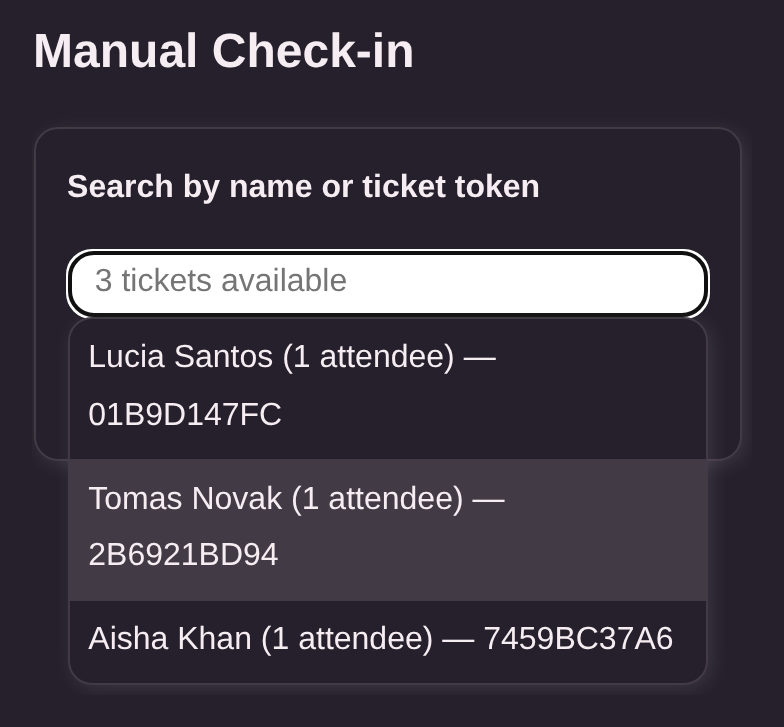
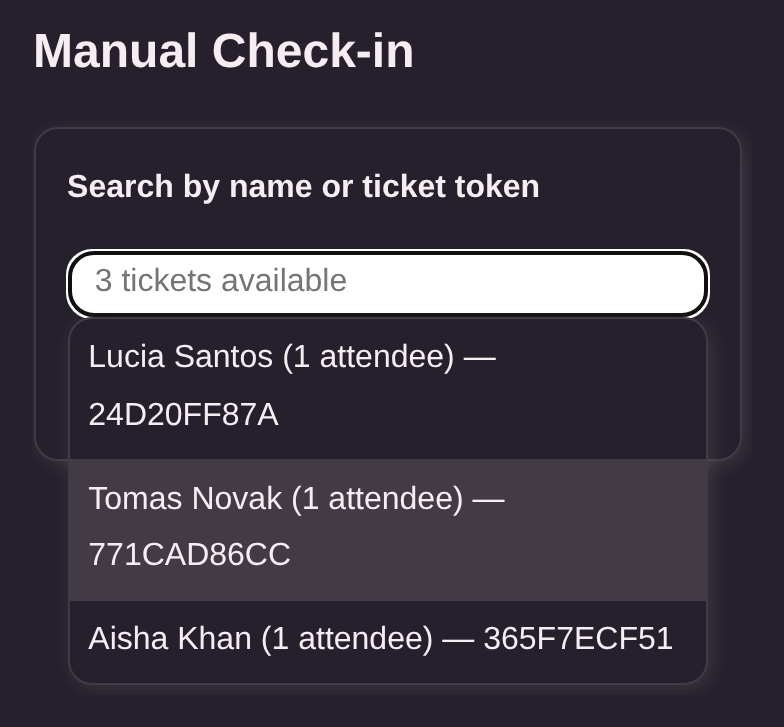
Layered screenshots

Changed region(s): [[0.6122, 0.8473, 0.8571, 0.9078], [0.1224, 0.7263, 0.3673, 0.7868], [0.1224, 0.5447, 0.3673, 0.6052]]

diff --git a/scripts/video/layered-screenshot.jsx b/scripts/video/layered-screenshot.jsx
@@ -1,0 +1,78 @@
+import {
+  Img,
+  interpolate,
+  spring,
+  staticFile,
+  useCurrentFrame,
+  useVideoConfig,
+} from "remotion";
+
+const SCREENSHOT_INSET = 72;
+const SCREENSHOT_OPACITY = 0.55;
+const SCREENSHOT_PLANES = [
+  { delay: 0, rotateX: -5, rotateY: -8, x: -38, y: 42, z: -180 },
+  { delay: 5, rotateX: 6, rotateY: 11, x: 72, y: 18, z: 260 },
+  { delay: 10, rotateX: -7, rotateY: -6, x: -48, y: -34, z: 420 },
+];
+
+const driftStyle = (frame, durationInFrames) => ({
+  height: `calc(100% - ${SCREENSHOT_INSET * 2}px)`,
+  inset: SCREENSHOT_INSET,
+  perspective: 1100,
+  position: "absolute",
+  transform: `translate3d(0, ${interpolate(
+    frame,
+    [0, durationInFrames],
+    [24, -24],
+    { extrapolateLeft: "clamp", extrapolateRight: "clamp" },
+  )}px, 0) scale(${interpolate(frame, [0, durationInFrames], [1.01, 1.06], {
+    extrapolateLeft: "clamp",
+    extrapolateRight: "clamp",
+  })})`,
+  transformStyle: "preserve-3d",
+  width: `calc(100% - ${SCREENSHOT_INSET * 2}px)`,
+});
+
+const planeStyle = (frame, fps, plane) => {
+  const progress = spring({
+    config: { damping: 17, mass: 0.75, stiffness: 105 },
+    delay: plane.delay,
+    fps,
+    frame,
+  });
+  const remaining = interpolate(progress, [0, 1], [1, 0], {
+    extrapolateLeft: "clamp",
+    extrapolateRight: "clamp",
+  });
+
+  return {
+    filter: `drop-shadow(0 ${18 * remaining}px ${22 * remaining}px rgba(0, 0, 0, ${0.24 * remaining}))`,
+    height: "100%",
+    objectFit: "contain",
+    opacity: interpolate(progress, [0, 1], [0, SCREENSHOT_OPACITY], {
+      extrapolateLeft: "clamp",
+      extrapolateRight: "clamp",
+    }),
+    position: "absolute",
+    transform: `translate3d(${plane.x * remaining}px, ${plane.y * remaining}px, ${plane.z * remaining}px) rotateX(${plane.rotateX * remaining}deg) rotateY(${plane.rotateY * remaining}deg)`,
+    transformOrigin: "50% 50%",
+    width: "100%",
+  };
+};
+
+export const LayeredScreenshot = ({ durationInFrames, layers }) => {
+  const frame = useCurrentFrame();
+  const { fps } = useVideoConfig();
+
+  return (
+    <div style={driftStyle(frame, durationInFrames)}>
+      {SCREENSHOT_PLANES.map((plane, index) => (
+        <Img
+          key={layers[index]}
+          src={staticFile(layers[index])}
+          style={planeStyle(frame, fps, plane)}
+        />
+      ))}
+    </div>
+  );
+};

diff --git a/scripts/screenshot-scenarios.js b/scripts/screenshot-scenarios.js
@@ -75,6 +75,7 @@ const resolveRequested = (requested) => {
 };
 
 const parseArg = (args, index) => {
+  if (args[index] === "--layers") return { advance: 0, layers: true };
   const arg = args[index];
   if (arg === "--no-social") return { advance: 0, social: null };
   if (arg === "--social") {
@@ -88,14 +89,16 @@ const parseArg = (args, index) => {
 
 const parseArgs = (args) => {
   const requested = [];
+  let layers = false;
   let social = DEFAULT_SOCIAL;
   for (let i = 0; i < args.length; i++) {
     const parsed = parseArg(args, i);
-    if (parsed.requested) requested.push(parsed.requested);
+    if (parsed.layers) layers = true;
+    else if (parsed.requested) requested.push(parsed.requested);
     else social = parsed.social;
     i += parsed.advance;
   }
-  return { requested, social };
+  return { layers, requested, social };
 };
 
 const exists = (p) => {
@@ -151,7 +154,7 @@ const addSocialText = async (scenarioName, scenario, social, socialResults) => {
   }
 };
 
-const runScenario = async (scenarioName, social) => {
+const runScenario = async (scenarioName, social, layers) => {
   const scenarioPath = join(SCENARIOS_DIR, `${scenarioName}.js`);
   const { default: scenario } = await import(
     `./screenshots/${scenarioName}.js`
@@ -172,6 +175,7 @@ const runScenario = async (scenarioName, social) => {
     scenarioPath,
     "--output",
     OUTPUT_DIR,
+    ...(layers ? ["--layers"] : []),
   ];
   const proc = spawn(cmd, { cwd: TICKETS_REPO });
   const code = await proc.exited;
@@ -195,14 +199,14 @@ const main = async () => {
     );
   }
 
-  const { requested, social } = parseArgs(process.argv.slice(2));
+  const { layers, requested, social } = parseArgs(process.argv.slice(2));
   const scenarios = resolveRequested(requested);
   console.log(
     `Taking ${scenarios.length} scenario${scenarios.length === 1 ? "" : "s"}…`,
   );
 
   for (const scenario of scenarios) {
-    await runScenario(scenario, social);
+    await runScenario(scenario, social, layers);
   }
 
   console.log(

diff --git a/scripts/video/social-scene.jsx b/scripts/video/social-scene.jsx
@@ -1,46 +1,20 @@
-import {
-  AbsoluteFill,
-  Img,
-  interpolate,
-  staticFile,
-  useCurrentFrame,
-} from "remotion";
+import { AbsoluteFill } from "remotion";
 import { BODY_FONT, DISPLAY_FONT } from "./fonts.js";
+import { LayeredScreenshot } from "./layered-screenshot.jsx";
 import { PaperText } from "./paper-text.jsx";
 import { SOCIAL_TEXT_STYLES } from "./text-layout.js";
 
-const SCREENSHOT_INSET = 72;
-const SCREENSHOT_OPACITY = 0.55;
 const PAPER_ALPHA = "d9";
 
-const screenshotStyle = (frame, durationInFrames) => ({
-  height: `calc(100% - ${SCREENSHOT_INSET * 2}px)`,
-  inset: SCREENSHOT_INSET,
-  objectFit: "contain",
-  opacity: SCREENSHOT_OPACITY,
-  position: "absolute",
-  transform: `translate3d(0, ${interpolate(
-    frame,
-    [0, durationInFrames],
-    [24, -24],
-    { extrapolateLeft: "clamp", extrapolateRight: "clamp" },
-  )}px, 0) scale(${interpolate(frame, [0, durationInFrames], [1.01, 1.06], {
-    extrapolateLeft: "clamp",
-    extrapolateRight: "clamp",
-  })})`,
-  width: `calc(100% - ${SCREENSHOT_INSET * 2}px)`,
-});
-
 export const SocialScene = ({ scene, sceneDurationInFrames }) => {
-  const frame = useCurrentFrame();
   const [background, text] = scene.palette;
   const paperColour = `${background}${PAPER_ALPHA}`;
 
   return (
     <AbsoluteFill style={{ background }}>
-      <Img
-        src={staticFile(scene.image)}
-        style={screenshotStyle(frame, sceneDurationInFrames)}
+      <LayeredScreenshot
+        durationInFrames={sceneDurationInFrames}
+        layers={scene.layers}
       />
       <PaperText
         colour={text}

diff --git a/scripts/video/paper-text.jsx b/scripts/video/paper-text.jsx
@@ -1,4 +1,4 @@
-import { spring, useCurrentFrame, useVideoConfig } from "remotion";
+import { interpolate, spring, useCurrentFrame, useVideoConfig } from "remotion";
 import { PAPER_TEXT_LAYERS, PAPER_TEXT_PADDING } from "./text-layout.js";
 
 const enterStyle = (frame, fps, delay, fromX) => {
@@ -9,6 +9,10 @@ const enterStyle = (frame, fps, delay, fromX) => {
     frame,
   });
   return {
+    clipPath: `inset(0 ${interpolate(progress, [0, 1], [100, 0], {
+      extrapolateLeft: "clamp",
+      extrapolateRight: "clamp",
+    })}% 0 0)`,
     opacity: progress,
     translate: `translate3d(${(1 - progress) * fromX}px, 0, 0)`,
   };
@@ -31,6 +35,7 @@ export const PaperText = ({
     <div
       style={{
         ...style,
+        clipPath: entrance.clipPath,
         opacity: entrance.opacity,
         transform: `${entrance.translate} ${style.transform}`,
       }}

diff --git a/test/video-scenes.test.js b/test/video-scenes.test.js
@@ -37,6 +37,11 @@ describe("social video scenes", () => {
       ...CHOBBLEFEST_SLIDES[0],
       address: "tickets.chobble.com  01/10",
       image: "images/screenshots/chobblefest-welcome.png",
+      layers: [
+        "images/screenshots/chobblefest-welcome__layer-background.png",
+        "images/screenshots/chobblefest-welcome__layer-controls.png",
+        "images/screenshots/chobblefest-welcome__layer-text.png",
+      ],
     });
     expect(scenes[9].address).toBe("tickets.chobble.com  10/10");
   });
@@ -73,4 +78,5 @@ describe("social video scenes", () => {
       zIndex: 1,
     });
   });
+
 });

diff --git a/scripts/video/scenes.js b/scripts/video/scenes.js
@@ -27,6 +27,9 @@ export const createSocialScenes = (slides) =>
     ...slide,
     address: `tickets.chobble.com  ${String(index + 1).padStart(2, "0")}/${String(slides.length).padStart(2, "0")}`,
     image: `images/screenshots/${slide.source}.png`,
+    layers: ["background", "controls", "text"].map(
+      (layer) => `images/screenshots/${slide.source}__layer-${layer}.png`,
+    ),
   }));
 
 const chobblefestScenes = createSocialScenes(CHOBBLEFEST_SLIDES);

diff --git a/scripts/capture-instagram-slideshow.js b/scripts/capture-instagram-slideshow.js
@@ -6,7 +6,13 @@ import { root } from "./utils.js";
 
 const scenarioNames = CHOBBLEFEST_SLIDES.map(({ source }) => source);
 const process = Bun.spawn(
-  ["bun", "scripts/screenshot-scenarios.js", ...scenarioNames, "--no-social"],
+  [
+    "bun",
+    "scripts/screenshot-scenarios.js",
+    ...scenarioNames,
+    "--no-social",
+    "--layers",
+  ],
   {
     cwd: root,
     stdio: ["inherit", "inherit", "inherit"],

diff --git a/scripts/video/README.md b/scripts/video/README.md
@@ -32,9 +32,11 @@ bun run video:render:local
 
 - `scenes.js` builds render-ready scene records and owns composition timing.
 - `social-video.jsx` sequences any list of social scenes with transitions.
-- `social-scene.jsx` renders the faded product image and text layout.
+- `social-scene.jsx` combines the product image and text layout.
+- `layered-screenshot.jsx` animates DOM-derived background, control and text
+  captures as depth planes which settle into the complete page.
 - `paper-text.jsx` paints all paper strips below a separate text layer, then
-  animates both layers together.
+  reveals and animates both layers together from left to right.
 - `text-layout.js` keeps the text geometry and safe line spacing in one place.
 - `root.jsx` registers each finished composition.
 - `render.js` runs any Remotion command in the shared container.
